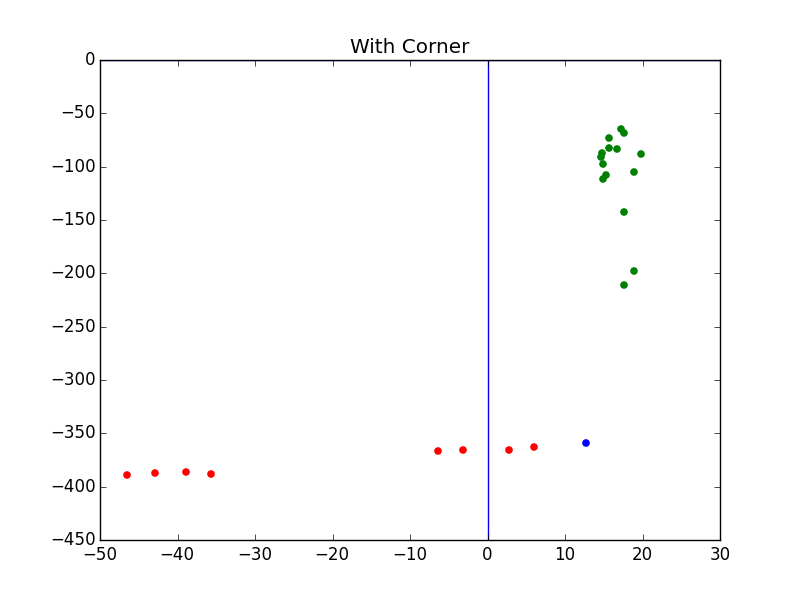
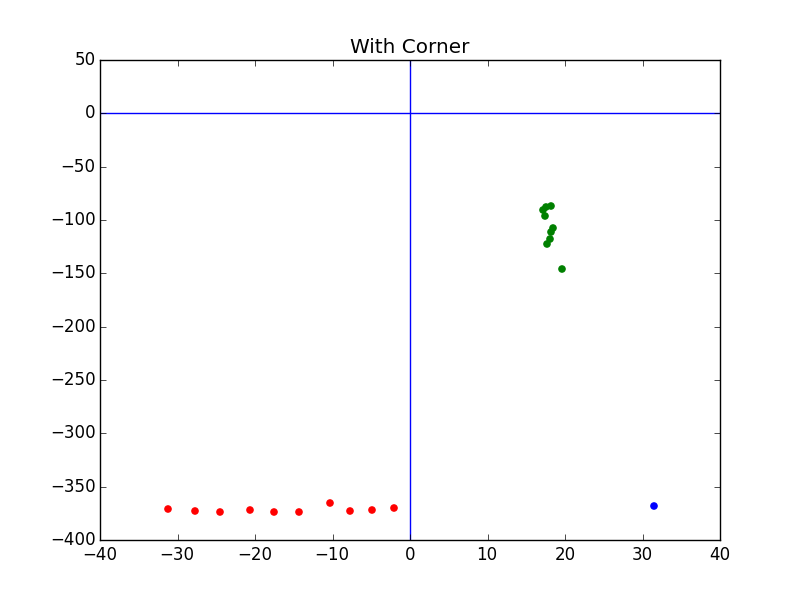
testing w actual position

diff --git a/CornerD.py b/CornerD.py
@@ -23,10 +23,10 @@ LIDAR_D_SMALL_CUTOFF = 1
 LIDAR_D_BIG_CUTOFF = 4500
 
 # ANGLE LIDAR IS FACING RELATIVE TO THE ALLIANCE WALL
-BEARING_TO_WALL = 87;
+BEARING_TO_WALL = 88;
 
 # ALL MEASUREMENTS TO BE IN CM
-LIDAR_DISTANCE = 5*IN_TO_CM;                # FULL FIELD AXIS DISTANCE:     FROM LIDAR CENTER TO ALLIANCE WALL
+LIDAR_DISTANCE = 8*IN_TO_CM;                # FULL FIELD AXIS DISTANCE:     FROM LIDAR CENTER TO ALLIANCE WALL
 ROBOT_IDEAL_Y = 13.5*FT_TO_IN*IN_TO_CM;     # ALLIANCE WALL AXIS DISTANCE:  FROM ROBOT CENTER TO BOILER CORNER
 LIDAR_POSITION = 0                          # ALLIANCE WALL AXIS DISTANCE:  FROM LIDAR CENETER TO ROBOT CENETER
 
@@ -123,7 +123,7 @@ for i in range(1, len(originalAngle)):
         if (np.absolute(xd[i]) < 20 and yd[i] < -0.15*IDEAL_Y and yd[i] > -0.8*IDEAL_Y):
                 wallAngle.append(originalAngle[i])
                 wallDistance.append(originalDistance[i])
-        elif (xd[i] < LIDAR_DISTANCE/2.0 and within(originalAngle[i]%360, (EXPECTED_THETA-18.5)%360, (EXPECTED_THETA-2.5)%360)):
+        elif (xd[i] < LIDAR_DISTANCE/2.0 and within(originalAngle[i]%360, (EXPECTED_THETA-15)%360, (EXPECTED_THETA-2.5)%360)):
                 boilerAngle.append(originalAngle[i])
                 boilerDistance.append(originalDistance[i])
 
@@ -149,6 +149,10 @@ for i in range(len(boilerDistance)):
 # REMOVE THE LOW BOILER NOISE TO KEEP ONLY THE OUTER WALLS OF THE BOILER
 
 # OUTER POINT TO MEASURE THE DISTANCE TO EACH POINT ON THE BOILER 
+
+boilerX = []
+boilerY = []
+
 pX, pY = -IDEAL_Y/2.0, 0
 
 if(not NO_OUTPUT and DEBUG):
@@ -162,34 +166,29 @@ if(not NO_OUTPUT and DEBUG):
         plt.axvline(0)
         plt.show()
 
-print(fullBoilerY[0])
+                                #REINSERT LOW BOILER
+
+for i in range(len(fullBoilerX)):
+        boilerX.append(fullBoilerX[i])
+        boilerY.append(fullBoilerY[i])
+
 
 def getDistance(x1, y1, x2, y2):
         return np.sqrt( (x2-x1)*(x2-x1) + (y2-y1)*(y2-y1) )
 
-fullDistances = []
-for i in range(0, len(fullBoilerX)):
-        fullDistances.append(getDistance(pX, pY, fullBoilerX[i], fullBoilerY[i]))
+maxDist = 0
+maxIdx = 0
 
-LOW_PERCENTILE = 3
-HIGH_PERCENTILE = 40
+for i in range(len(boilerX)-1):
+        thisDist = getDistance(boilerX[i], boilerY[i], boilerX[i+1], boilerY[i+1])
+        if(thisDist > maxDist):
+                maxIdx = i
+                maxDist = thisDist
 
-lowDistance = np.percentile(fullDistances, LOW_PERCENTILE)
-highDistance = np.percentile(fullDistances, HIGH_PERCENTILE)
-if(not NO_OUTPUT and DEBUG):
-        print("\nDISTANCE PERCENTILES\n  " + str(LOW_PERCENTILE) + "%: " + str(lowDistance) + "\n  " + str(HIGH_PERCENTILE) + "%: " + str(highDistance))
-
-boilerX = []
-boilerY = []
-for i in range(len(fullBoilerX)):
-        if(fullDistances[i] >= lowDistance and fullDistances[i] <= highDistance):
-                boilerX.append(fullBoilerX[i])
-                boilerY.append(fullBoilerY[i])
-
-if(not NO_OUTPUT and DEBUG):
-        print("\n# of cut boiler pts: " + str(len(boilerX)))
-
-
+boilerX = boilerX[maxIdx+2:]
+boilerY = boilerY[maxIdx+2:]
+#boilerX = [len(boilerX)/2:]
+#boilerY = [len(boilerY)/2:]
 
 # CORNER DETECTION
 
@@ -198,7 +197,7 @@ if(not NO_OUTPUT and DEBUG2):
         print("\nBoiler Slope: " + str(boilerSlope))
         print("Boiler Intercept: " + str(boilerIntercept))
 
-
+                                
 
 x = LIDAR_DISTANCE
 y = boilerSlope*x+boilerIntercept
@@ -214,6 +213,7 @@ if(not NO_OUTPUT and DEBUG):
         plt.title("With Corner")
         plt.scatter(wallX, wallY, color="green")
         plt.scatter(boilerX, boilerY, color="red")
+        plt.scatter(LIDAR_DISTANCE, -13.5*FT_TO_IN*IN_TO_CM, color="yellow")
         plt.scatter(x, y, color="blue")
         plt.axhline(0)
         plt.axvline(0)

diff --git a/GapCornerD.py b/GapCornerD.py
@@ -26,8 +26,8 @@ LIDAR_D_BIG_CUTOFF = 4500
 BEARING_TO_WALL = 90;
 
 # ALL MEASUREMENTS TO BE IN CM
-LIDAR_DISTANCE = 5*IN_TO_CM;                # FULL FIELD AXIS DISTANCE:     FROM LIDAR CENTER TO ALLIANCE WALL
-ROBOT_IDEAL_Y = 13.5*FT_TO_IN*IN_TO_CM;     # ALLIANCE WALL AXIS DISTANCE:  FROM ROBOT CENTER TO BOILER CORNER
+LIDAR_DISTANCE = 20;                        # FULL FIELD AXIS DISTANCE:     FROM LIDAR CENTER TO ALLIANCE WALL
+ROBOT_IDEAL_Y = 12.5*FT_TO_IN*IN_TO_CM;     # ALLIANCE WALL AXIS DISTANCE:  FROM ROBOT CENTER TO BOILER CORNER
 LIDAR_POSITION = 0                          # ALLIANCE WALL AXIS DISTANCE:  FROM LIDAR CENETER TO ROBOT CENETER
 
 IDEAL_Y = ROBOT_IDEAL_Y - LIDAR_POSITION;   # ALLIANCE WALL AXIS DISTANCE:  FROM LIDAR CENTER TO BOILER CORNER
@@ -120,7 +120,7 @@ def within(a, startAngle, endAngle):
                 return a<startAngle or a>endAngle
 
 for i in range(1, len(originalAngle)):
-        if (np.absolute(xd[i]) < 20 and yd[i] < -0.15*IDEAL_Y and yd[i] > -0.8*IDEAL_Y):
+        if (np.absolute(xd[i]) < 20 and yd[i] < -0.225*IDEAL_Y and yd[i] > -0.9*IDEAL_Y):
                 wallAngle.append(originalAngle[i])
                 wallDistance.append(originalDistance[i])
         elif (xd[i] < 0 and within(originalAngle[i]%360, (EXPECTED_THETA-18.5)%360, (EXPECTED_THETA-2.5)%360)):
@@ -146,9 +146,7 @@ for i in range(len(boilerDistance)):
 
 
 
-# REMOVE THE LOW BOILER NOISE TO KEEP ONLY THE OUTER WALLS OF THE BOILER
 
-# OUTER POINT TO MEASURE THE DISTANCE TO EACH POINT ON THE BOILER 
 pX, pY = -IDEAL_Y/2.0, 0
 
 if(not NO_OUTPUT and DEBUG):
@@ -162,32 +160,23 @@ if(not NO_OUTPUT and DEBUG):
         plt.axvline(0)
         plt.show()
 
-print(fullBoilerY[0])
+boilerX = fullBoilerX
+boilerY = fullBoilerY
 
 def getDistance(x1, y1, x2, y2):
         return np.sqrt( (x2-x1)*(x2-x1) + (y2-y1)*(y2-y1) )
 
-fullDistances = []
-for i in range(0, len(fullBoilerX)):
-        fullDistances.append(getDistance(pX, pY, fullBoilerX[i], fullBoilerY[i]))
+maxDist = 0
+maxIdx = 0
 
-LOW_PERCENTILE = 3
-HIGH_PERCENTILE = 40
+for i in range(len(boilerX)-1):
+        thisDist = getDistance(boilerX[i], boilerY[i], boilerX[i+1], boilerY[i+1])
+        if(thisDist > maxDist):
+                maxIdx = i
+                maxDist = thisDist
 
-lowDistance = np.percentile(fullDistances, LOW_PERCENTILE)
-highDistance = np.percentile(fullDistances, HIGH_PERCENTILE)
-if(not NO_OUTPUT and DEBUG):
-        print("\nDISTANCE PERCENTILES\n  " + str(LOW_PERCENTILE) + "%: " + str(lowDistance) + "\n  " + str(HIGH_PERCENTILE) + "%: " + str(highDistance))
-
-boilerX = []
-boilerY = []
-for i in range(len(fullBoilerX)):
-        if(fullDistances[i] >= lowDistance and fullDistances[i] <= highDistance):
-                boilerX.append(fullBoilerX[i])
-                boilerY.append(fullBoilerY[i])
-
-if(not NO_OUTPUT and DEBUG):
-        print("\n# of cut boiler pts: " + str(len(boilerX)))
+boilerX = boilerX[maxIdx+2:]
+boilerY = boilerY[maxIdx+2:]
 
 
 
@@ -197,10 +186,15 @@ wallSlope, wallIntercept = np.polyfit(wallX, wallY, 1)
 boilerSlope, boilerIntercept = np.polyfit(boilerX, boilerY, 1)
 if(not NO_OUTPUT and DEBUG2):
         print("\nSLOPES\n  Wall: " + str(wallSlope) + "\n  Boiler: " + str(boilerSlope))
-        print("INTERCEPTS\n  Wall: " + str(wallIntercept) + "\n  Boiler:" + str(boilerIntercept))
+        print("INTERCEPTS\n  Wall: " + str(wallIntercept) + "\n  Boiler: " + str(boilerIntercept))
 
 x = (boilerIntercept - wallIntercept)/(wallSlope-boilerSlope)
 y = (wallSlope*x + wallIntercept)
+
+realX = LIDAR_DISTANCE
+realY = math.sqrt(x*x + y*y - realX*realX)+10
+
+print("meme: ", realY/IN_TO_CM/FT_TO_IN)
 
 if(not NO_OUTPUT and DEBUG):
         print("\nCorner:")

diff --git a/ledtest.py b/ledtest.py
@@ -1,8 +1,8 @@
 import RPi.GPIO as GPIO
 import time
 
-red = 21
-white = 20
+red = 3
+white = 2
 
 GPIO.setmode(GPIO.BCM)
 
